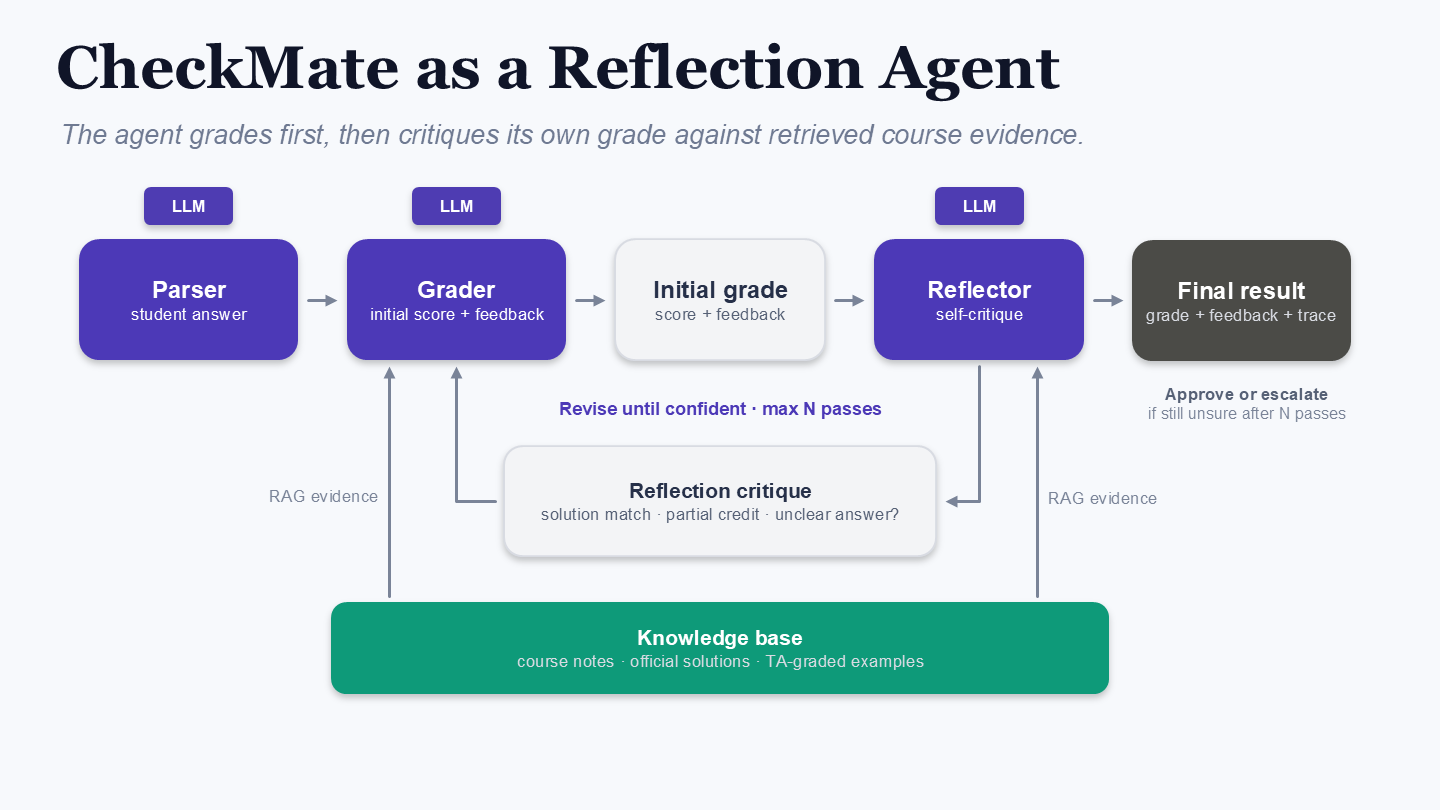
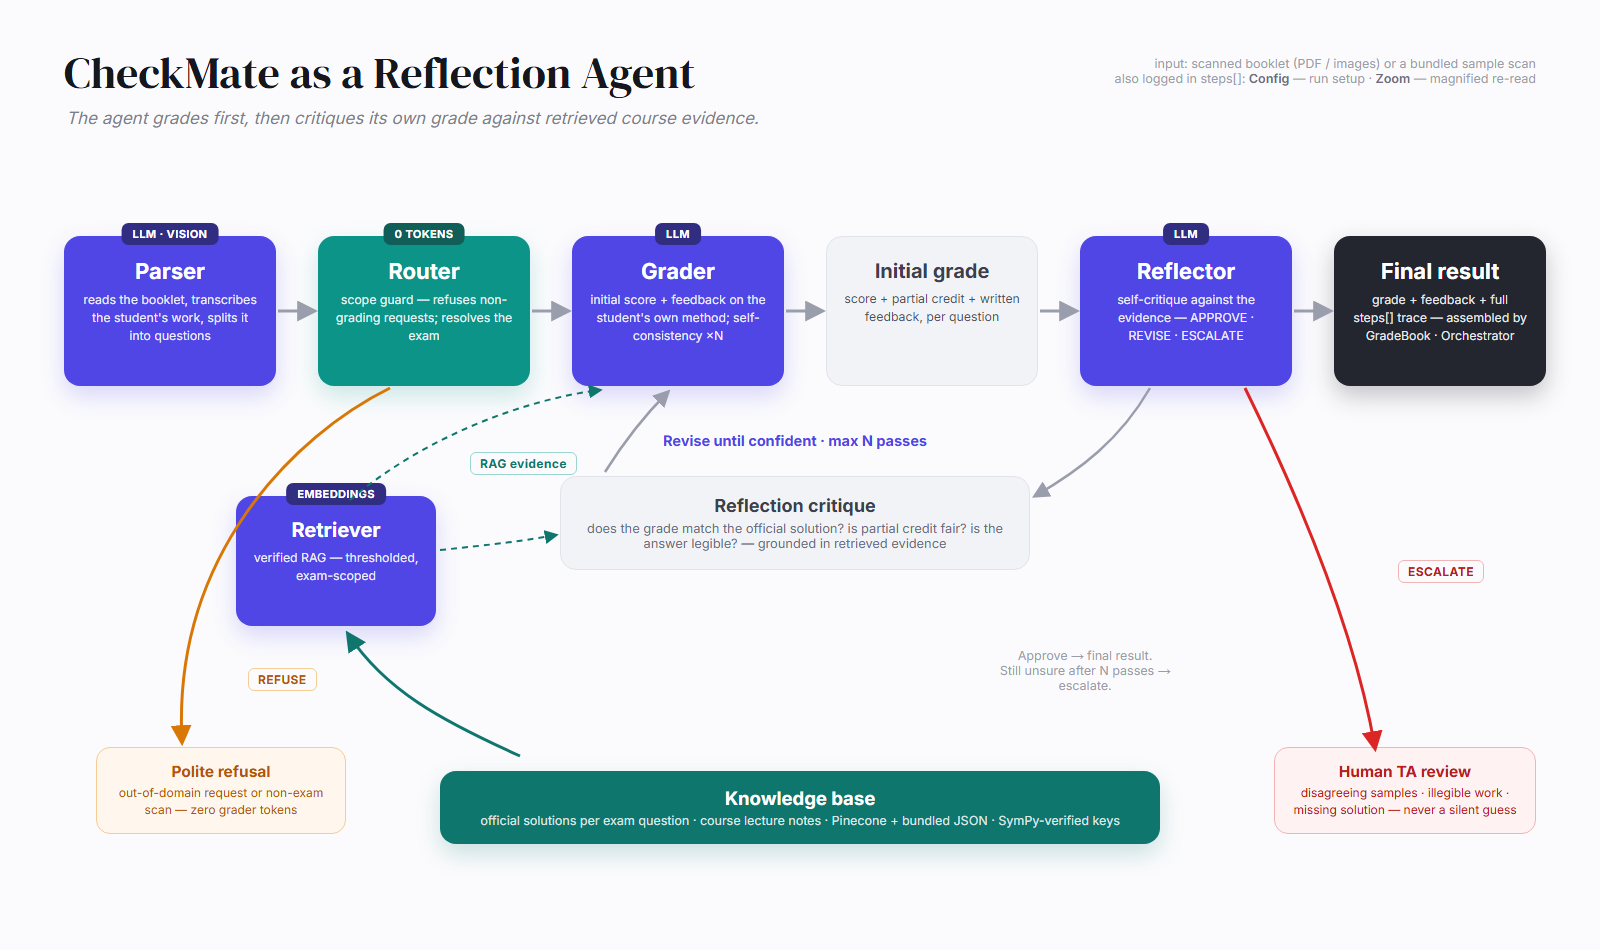
New architecture diagram: the deck slide completed, from an HTML source of truth
Keeps the demo-day slide's narrative (grade first, then self-critique: Initial
grade and Reflection critique cards, "revise until confident" loop) and adds
everything the old slide omitted that steps[] logs by name: Router with the
scope-guard REFUSE branch, Retriever (verified RAG) fed by the knowledge base,
Human TA review via ESCALATE, GradeBook/Orchestrator in the final result, and
the Config/Zoom aux note. Closes the diagram/trace/description consistency gap
flagged by 3 of 5 real gradings and the grading simulation.

scripts/architecture.html is the single source of truth; render with
scripts/render_architecture.py (Playwright). The PowerPoint export script is
retired -- the deck should now copy the served PNG, not the reverse.

diff --git a/scripts/architecture.html b/scripts/architecture.html
@@ -1,0 +1,124 @@
+<!DOCTYPE html>
+<html lang="en">
+<head>
+<meta charset="utf-8">
+<link href="https://fonts.googleapis.com/css2?family=DM+Serif+Display&family=Inter:wght@400;500;600;700&display=swap" rel="stylesheet">
+<style>
+  * { margin: 0; padding: 0; box-sizing: border-box; }
+  body { width: 1600px; height: 900px; background: #fbfbfd; font-family: Inter, sans-serif; position: relative; overflow: hidden; }
+  .title { position: absolute; left: 64px; top: 42px; font-family: "DM Serif Display", serif; font-size: 44px; color: #16161d; }
+  .subtitle { position: absolute; left: 66px; top: 108px; font-size: 17px; color: #7c7f8e; font-style: italic; }
+  .aux { position: absolute; right: 64px; top: 56px; font-size: 12.5px; color: #9a9dab; text-align: right; }
+  .aux b { color: #6b6e7d; font-weight: 600; }
+
+  .box { position: absolute; width: 212px; height: 150px; border-radius: 16px; padding: 22px 16px 0; text-align: center; }
+  .llm { background: #4f46e5; color: #fff; box-shadow: 0 10px 24px rgba(79,70,229,.20); }
+  .det { background: #0d9488; color: #fff; box-shadow: 0 10px 24px rgba(13,148,136,.20); }
+  .soft { background: #f2f3f7; border: 1.5px solid #e2e4ec; color: #3c3f4c; }
+  .dark { background: #23252f; color: #fff; box-shadow: 0 10px 24px rgba(35,37,47,.25); }
+  .box h2 { font-size: 22px; font-weight: 700; margin-bottom: 7px; }
+  .soft h2 { font-size: 20px; }
+  .box p { font-size: 12.3px; line-height: 1.45; opacity: .9; }
+  .chip { position: absolute; top: -13px; left: 50%; transform: translateX(-50%);
+          background: #312e81; color: #fff; font-size: 11px; font-weight: 700; letter-spacing: .4px;
+          padding: 4px 11px; border-radius: 7px; }
+  .det .chip { background: #115e59; }
+
+  .critique { position: absolute; left: 560px; top: 476px; width: 470px; border-radius: 16px;
+              background: #f2f3f7; border: 1.5px solid #e2e4ec; padding: 18px 22px; text-align: center; }
+  .critique h3 { font-size: 18px; font-weight: 700; color: #3c3f4c; margin-bottom: 5px; }
+  .critique p { font-size: 12.8px; color: #6b6e7d; }
+  .revisecap { position: absolute; left: 585px; top: 432px; width: 420px; text-align: center;
+               color: #4f46e5; font-weight: 700; font-size: 14.5px; }
+
+  .kb { position: absolute; left: 440px; bottom: 56px; width: 720px; border-radius: 16px;
+        background: #0f766e; color: #fff; padding: 16px 24px; text-align: center;
+        box-shadow: 0 10px 24px rgba(15,118,110,.2); }
+  .kb h3 { font-size: 18.5px; font-weight: 700; margin-bottom: 4px; }
+  .kb p { font-size: 12.5px; color: rgba(255,255,255,.86); }
+
+  .refuse { position: absolute; left: 96px; bottom: 66px; width: 250px; border-radius: 14px;
+            background: #fff7ed; border: 1.5px solid #f5cc94; color: #b45309; padding: 14px 16px; text-align: center; }
+  .refuse h3 { font-size: 15.5px; font-weight: 700; margin-bottom: 4px; }
+  .refuse p { font-size: 12px; line-height: 1.4; }
+  .human { position: absolute; right: 64px; bottom: 66px; width: 262px; border-radius: 14px;
+           background: #fef2f2; border: 1.5px solid #f3b4b4; color: #b91c1c; padding: 14px 16px; text-align: center; }
+  .human h3 { font-size: 15.5px; font-weight: 700; margin-bottom: 4px; }
+  .human p { font-size: 12px; line-height: 1.4; }
+
+  .note { position: absolute; font-size: 12.5px; color: #9a9dab; text-align: center; }
+  .lbl { position: absolute; font-size: 12px; font-weight: 700; letter-spacing: .4px; padding: 3px 9px;
+         border-radius: 6px; background: #fbfbfd; border: 1.5px solid; }
+  svg.overlay { position: absolute; inset: 0; width: 1600px; height: 900px; pointer-events: none; }
+</style>
+</head>
+<body>
+  <div class="title">CheckMate as a Reflection Agent</div>
+  <div class="subtitle">The agent grades first, then critiques its own grade against retrieved course evidence.</div>
+  <div class="aux">input: scanned booklet (PDF / images) or a bundled sample scan<br>
+       also logged in steps[]: <b>Config</b> — run setup · <b>Zoom</b> — magnified re-read</div>
+
+  <!-- main row -->
+  <div class="box llm"  style="left:64px;  top:236px;"><div class="chip">LLM · VISION</div><h2>Parser</h2><p>reads the booklet, transcribes the student's work, splits it into questions</p></div>
+  <div class="box det"  style="left:318px; top:236px;"><div class="chip">0 TOKENS</div><h2>Router</h2><p>scope guard — refuses non-grading requests; resolves the exam</p></div>
+  <div class="box llm"  style="left:572px; top:236px;"><div class="chip">LLM</div><h2>Grader</h2><p>initial score + feedback on the student's own method; self-consistency ×N</p></div>
+  <div class="box soft" style="left:826px; top:236px;"><h2>Initial grade</h2><p>score + partial credit + written feedback, per question</p></div>
+  <div class="box llm"  style="left:1080px;top:236px;"><div class="chip">LLM</div><h2>Reflector</h2><p>self-critique against the evidence — APPROVE · REVISE · ESCALATE</p></div>
+  <div class="box dark" style="left:1334px;top:236px;"><h2>Final result</h2><p>grade + feedback + full steps[] trace — assembled by GradeBook · Orchestrator</p></div>
+
+  <div class="revisecap">Revise until confident · max N passes</div>
+  <div class="critique">
+    <h3>Reflection critique</h3>
+    <p>does the grade match the official solution? is partial credit fair? is the answer legible? — grounded in retrieved evidence</p>
+  </div>
+
+  <div class="box llm" style="left:236px; top:496px; width:200px; height:130px;"><div class="chip">EMBEDDINGS</div><h2 style="font-size:20px;">Retriever</h2><p>verified RAG — thresholded, exam-scoped</p></div>
+
+  <div class="kb">
+    <h3>Knowledge base</h3>
+    <p>official solutions per exam question · course lecture notes · Pinecone + bundled JSON · SymPy-verified keys</p>
+  </div>
+
+  <div class="refuse"><h3>Polite refusal</h3><p>out-of-domain request or non-exam scan — zero grader tokens</p></div>
+  <div class="human"><h3>Human TA review</h3><p>disagreeing samples · illegible work · missing solution — never a silent guess</p></div>
+
+  <div class="note" style="left:990px; top:648px; width:190px;">Approve → final result.<br>Still unsure after N passes → escalate.</div>
+
+  <div class="lbl" style="left:248px; top:668px; color:#b45309; border-color:#f5cc94;">REFUSE</div>
+  <div class="lbl" style="left:470px; top:452px; color:#0f766e; border-color:#99d6cf;">RAG evidence</div>
+  <div class="lbl" style="left:1398px; top:560px; color:#b91c1c; border-color:#f3b4b4;">ESCALATE</div>
+
+  <svg class="overlay" viewBox="0 0 1600 900">
+    <defs>
+      <marker id="a" viewBox="0 0 10 10" refX="8" refY="5" markerWidth="7" markerHeight="7" orient="auto-start-reverse">
+        <path d="M0 0 L10 5 L0 10 z" fill="#9a9dab"/></marker>
+      <marker id="amber" viewBox="0 0 10 10" refX="8" refY="5" markerWidth="7" markerHeight="7" orient="auto-start-reverse">
+        <path d="M0 0 L10 5 L0 10 z" fill="#d97706"/></marker>
+      <marker id="red" viewBox="0 0 10 10" refX="8" refY="5" markerWidth="7" markerHeight="7" orient="auto-start-reverse">
+        <path d="M0 0 L10 5 L0 10 z" fill="#dc2626"/></marker>
+      <marker id="green" viewBox="0 0 10 10" refX="8" refY="5" markerWidth="7" markerHeight="7" orient="auto-start-reverse">
+        <path d="M0 0 L10 5 L0 10 z" fill="#0f766e"/></marker>
+      <marker id="purple" viewBox="0 0 10 10" refX="8" refY="5" markerWidth="7" markerHeight="7" orient="auto-start-reverse">
+        <path d="M0 0 L10 5 L0 10 z" fill="#4f46e5"/></marker>
+    </defs>
+    <!-- main flow -->
+    <line x1="278" y1="311" x2="314" y2="311" stroke="#9a9dab" stroke-width="3" marker-end="url(#a)"/>
+    <line x1="532" y1="311" x2="568" y2="311" stroke="#9a9dab" stroke-width="3" marker-end="url(#a)"/>
+    <line x1="786" y1="311" x2="822" y2="311" stroke="#9a9dab" stroke-width="3" marker-end="url(#a)"/>
+    <line x1="1040" y1="311" x2="1076" y2="311" stroke="#9a9dab" stroke-width="3" marker-end="url(#a)"/>
+    <line x1="1294" y1="311" x2="1330" y2="311" stroke="#9a9dab" stroke-width="3" marker-end="url(#a)"/>
+    <!-- reflection loop: Reflector -> critique -> Grader -->
+    <path d="M 1150 388 C 1120 440, 1080 470, 1035 496" fill="none" stroke="#9a9dab" stroke-width="2.5" marker-end="url(#a)"/>
+    <path d="M 605 472 C 625 440, 645 415, 668 392" fill="none" stroke="#9a9dab" stroke-width="2.5" marker-end="url(#a)"/>
+    <!-- REFUSE: Router down to refusal pill (stays left of the Retriever box) -->
+    <path d="M 390 388 C 295 435, 172 555, 182 742" fill="none" stroke="#d97706" stroke-width="3" marker-end="url(#amber)"/>
+    <!-- KB -> Retriever -->
+    <path d="M 520 756 C 440 720, 385 690, 348 634" fill="none" stroke="#0f766e" stroke-width="3" marker-end="url(#green)"/>
+    <!-- Retriever evidence -> Grader and -> critique -->
+    <path d="M 350 500 C 420 440, 520 400, 600 390" fill="none" stroke="#0f766e" stroke-width="2" stroke-dasharray="6 5" marker-end="url(#green)"/>
+    <path d="M 440 550 C 490 545, 530 540, 556 535" fill="none" stroke="#0f766e" stroke-width="2" stroke-dasharray="6 5" marker-end="url(#green)"/>
+    <!-- ESCALATE: Reflector down-right to human pill -->
+    <path d="M 1245 388 C 1300 500, 1355 630, 1375 748" fill="none" stroke="#dc2626" stroke-width="3" marker-end="url(#red)"/>
+  </svg>
+</body>
+</html>

diff --git a/scripts/render_architecture.py b/scripts/render_architecture.py
@@ -1,0 +1,32 @@
+"""Render the architecture diagram from its single source of truth.
+
+scripts/architecture.html IS the diagram — every module name in it matches the steps[]
+logging verbatim (the course grades that consistency). This script renders it to the two
+served copies. Requires playwright (`pip install playwright && playwright install chromium`).
+
+Run: python scripts/render_architecture.py
+"""
+from __future__ import annotations
+
+import os
+
+from playwright.sync_api import sync_playwright
+
+ROOT = os.path.dirname(os.path.dirname(os.path.abspath(__file__)))
+SRC = os.path.join(ROOT, "scripts", "architecture.html")
+
+
+def main() -> None:
+    with sync_playwright() as p:
+        browser = p.chromium.launch()
+        page = browser.new_page(viewport={"width": 1600, "height": 900})
+        page.goto("file:///" + SRC.replace("\\", "/"), wait_until="networkidle")
+        page.wait_for_timeout(1200)  # let the Google Fonts settle
+        for out in ("static", "public"):
+            page.screenshot(path=os.path.join(ROOT, out, "architecture.png"))
+            print("wrote", os.path.join(ROOT, out, "architecture.png"))
+        browser.close()
+
+
+if __name__ == "__main__":
+    main()
